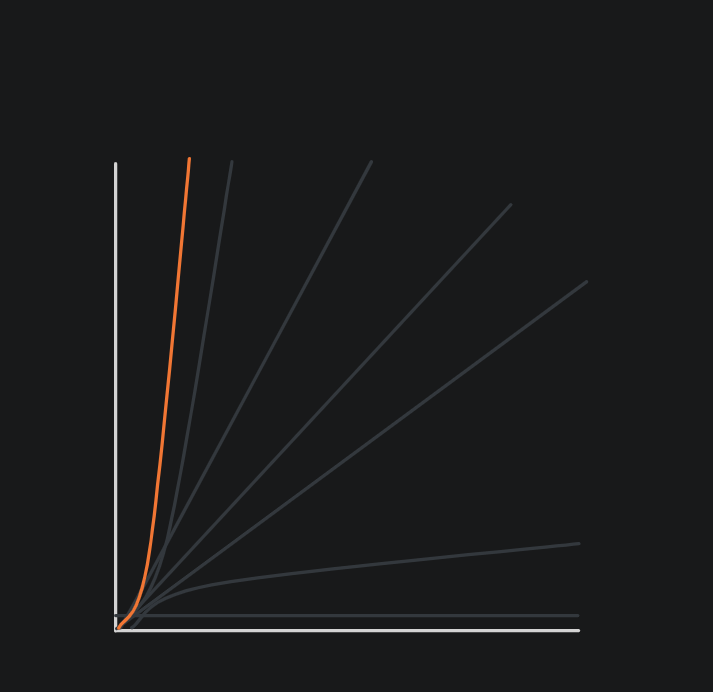
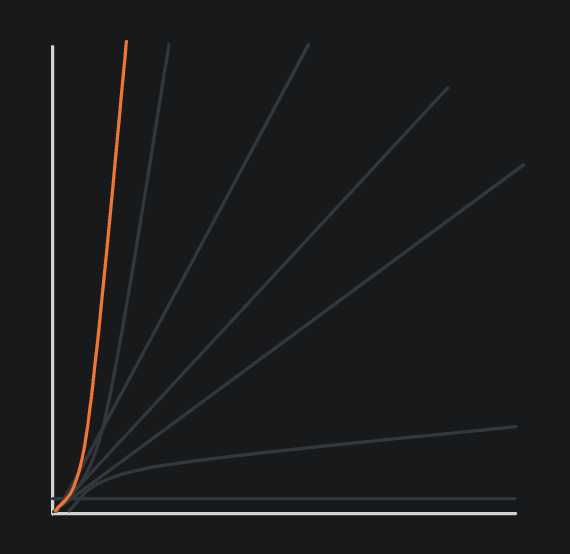
fixed bugs in complexity analysis

diff --git a/src/app/(root)/_components/ComplexityCard.tsx b/src/app/(root)/_components/ComplexityCard.tsx
@@ -1,12 +1,12 @@
 "use client";
-import React, { useEffect, useState, useCallback } from 'react';
-import { useCodeEditorStore } from '@/store/useCodeEditorStore';
-import Image from 'next/image';
-import { Loader2 } from 'lucide-react';
+import React, { useEffect, useState, useCallback, useRef } from "react";
+import { useCodeEditorStore } from "@/store/useCodeEditorStore";
+import Image from "next/image";
+import { Loader2 } from "lucide-react";
 
 interface ComplexityResult {
-    complexity: string;
-    category: string;
+    complexity: string; // AI-provided (full)
+    category: string;   // Simplified for image mapping
 }
 
 const ComplexityCard = () => {
@@ -14,39 +14,36 @@ const ComplexityCard = () => {
     const [isLoading, setIsLoading] = useState(false);
     const [error, setError] = useState<string | null>(null);
     const [result, setResult] = useState<ComplexityResult | null>(null);
+    const effectRan = useRef(false);
 
-    // Map of complexity to image path
-    const getImagePath = (complexity: string) => {
-        if (!complexity) return '/Complexity/O_N.png';
-        
-        // Clean and normalize the complexity string
-        const normalized = complexity.trim().toLowerCase();
-        
-        // Map complexity to the corresponding image
-        if (normalized.includes('o(1)') || normalized === 'constant') {
-            return '/Complexity/O_1.png';
-        } else if (normalized.includes('log') && normalized.includes('n')) {
-            return '/Complexity/O_logN.png';
-        } else if (normalized === 'o(n)' || normalized === 'linear') {
-            return '/Complexity/O_N.png';
-        } else if (normalized.includes('n log n') || normalized === 'linearithmic') {
-            return '/Complexity/O_NlogN.png';
-        } else if (normalized.includes('n²') || normalized.includes('n^2') || normalized === 'quadratic') {
-            return '/Complexity/O_N2.png';
-        } else if (normalized.includes('2^') || normalized.includes('^n') || normalized === 'exponential') {
-            return '/Complexity/O_NN.png';
-        } else if (normalized.includes('n!') || normalized === 'factorial') {
-            return '/Complexity/O_NN.png'; // Using exponential as fallback for factorial
+    // Map category to image path
+    const getImagePath = (category: string) => {
+        if (!category) return "/Complexity/O_N.png";
+        const normalized = category.trim().toLowerCase();
+
+        if (normalized.includes("o(1)") || normalized === "constant") {
+            return "/Complexity/O_1.png";
+        } else if (normalized.includes("log") && normalized.includes("n")) {
+            return "/Complexity/O_logN.png";
+        } else if (normalized === "o(n)" || normalized === "linear") {
+            return "/Complexity/O_N.png";
+        } else if (normalized.includes("n log n") || normalized === "linearithmic") {
+            return "/Complexity/O_NlogN.png";
+        } else if (normalized.includes("n²") || normalized.includes("n^2") || normalized === "quadratic") {
+            return "/Complexity/O_N2.png";
+        } else if (normalized.includes("2^") || normalized.includes("^n") || normalized === "exponential") {
+            return "/Complexity/O_NN.png";
+        } else if (normalized.includes("n!") || normalized === "factorial") {
+            return "/Complexity/O_NN.png";
         }
-        
-        // Default fallback
-        return '/Complexity/O_N.png';
+
+        return "/Complexity/O_N.png";
     };
 
     const analyzeComplexity = useCallback(async () => {
         const code = editorStore.getCode();
         if (!code.trim()) {
-            setError('No code to analyze');
+            setError("⚠ No code to analyze");
             return;
         }
 
@@ -54,31 +51,47 @@ const ComplexityCard = () => {
         setError(null);
 
         try {
-            const response = await fetch('/api/complexity', {
-                method: 'POST',
-                headers: {
-                    'Content-Type': 'application/json',
-                },
+            const response = await fetch("/api/complexity", {
+                method: "POST",
+                headers: { "Content-Type": "application/json" },
                 body: JSON.stringify({ code }),
             });
 
             if (!response.ok) {
-                const errorData = await response.json().catch(() => ({}));
-                throw new Error(errorData.error || 'Failed to analyze complexity');
+                let message = "Failed to analyze complexity";
+                try {
+                    const errData = await response.json();
+                    if (errData?.error) message = errData.error;
+                } catch {
+                    // ignore parsing error
+                }
+                throw new Error(message);
             }
 
             const data = await response.json();
+
+            // Safety check in case API sends weird data
+            if (!data?.complexity || !data?.category) {
+                throw new Error("Invalid complexity data received from AI");
+            }
+
             setResult(data);
         } catch (err) {
-            console.error('Error analyzing complexity:', err);
-            setError(err instanceof Error ? err.message : 'An unknown error occurred');
+            console.error("Error analyzing complexity:", err);
+            setError(
+                err instanceof Error ? err.message : "Unexpected error occurred"
+            );
         } finally {
             setIsLoading(false);
         }
     }, [editorStore]);
 
     useEffect(() => {
-        analyzeComplexity();
+        // Prevent duplicate calls in development mode with React Strict Mode
+        if (effectRan.current === false) {
+            analyzeComplexity();
+            effectRan.current = true;
+        }
     }, [analyzeComplexity]);
 
     if (isLoading) {
@@ -100,7 +113,7 @@ const ComplexityCard = () => {
                     <p className="text-sm mt-2">{error}</p>
                 </div>
                 <button
-                    onClick={() => window.location.reload()}
+                    onClick={analyzeComplexity}
                     className="mt-4 text-sm text-primary hover:underline"
                 >
                     Try again
@@ -117,36 +130,32 @@ const ComplexityCard = () => {
         );
     }
 
-    const imagePath = getImagePath(result?.category || '');
-    const complexityFormatted = result?.complexity
-        ? result.complexity.replace(/</g, '&lt;').replace(/>/g, '&gt;')
-        : '';
+    const imagePath = getImagePath(result.category);
 
     return (
         <div className="relative">
             <div className="flex flex-col items-center">
-            <div className="text-center">
-                    <div
-                        className="absolute z-10 text-3xl font-mono font-bold mb-2"
-                        dangerouslySetInnerHTML={{ __html: complexityFormatted }}
-                    />
-                </div>
+                {/* Display full complexity from AI */}
+                <p className="text-center z-10 text-3xl font-mono font-bold mb-4">
+                    {result.complexity}
+                </p>
 
-                <div className="relative w-92 h-92">
+                {/* Image with clipped top portion */}
+                <div
+                    className="relative w-92 h-92 overflow-hidden"
+                    style={{ clipPath: "inset(20px 0 0 0)" }} // clips 20px from top
+                >
                     <Image
                         src={imagePath}
-                        alt={`Complexity: ${result.complexity}`}
+                        alt={`Complexity: ${result.category}`}
                         fill
                         className="object-contain"
                         onError={(e) => {
-                            // Fallback to unknown image if the specific one doesn't exist
                             const target = e.target as HTMLImageElement;
-                            target.src = '/Complexity/UNKNOWN.png';
+                            target.src = "/Complexity/UNKNOWN.png";
                         }}
                     />
                 </div>
-
-                
             </div>
         </div>
     );

diff --git a/src/app/(root)/_components/OutputPanel.tsx b/src/app/(root)/_components/OutputPanel.tsx
@@ -18,6 +18,7 @@ import {
     DialogTrigger,
 } from "@/components/ui/dialog"
 import ComplexityCard from '@/app/(root)/_components/ComplexityCard';
+import { DialogTitle } from '@radix-ui/react-dialog';
 
 // Constants for language icons and file extensions
 const LANGUAGE_ICONS: Record<string, React.ReactNode> = {
@@ -145,6 +146,7 @@ function OutputPanel() {
                                 Complexity
                             </button>
                         </DialogTrigger>
+                        <DialogTitle className='hidden'>Time Complexity</DialogTitle>
                         <DialogContent className="sm:max-w-[425px] bg-popover">
                             <ComplexityCard />
                         </DialogContent>

diff --git a/src/app/api/complexity/route.ts b/src/app/api/complexity/route.ts
@@ -16,7 +16,7 @@ export async function POST(req: Request) {
     }
 
     // Get the generative model
-    const model = genAI.getGenerativeModel({ model: 'gemini-1.5-flash' });
+    const model = genAI.getGenerativeModel({ model: 'gemini-2.5-flash-lite' });
 
     // Define the prompt for complexity analysis
     const prompt = `Analyze the following code and determine its time complexity. 

diff --git a/src/app/api/ai/route.ts b/src/app/api/ai/route.ts
@@ -77,7 +77,7 @@ export async function POST(request: Request) {
 
     // Get the model
     const model = genAI.getGenerativeModel({
-      model: "gemini-2.0-flash",
+      model: "gemini-2.5-flash-lite",
       safetySettings,
       generationConfig,
     });

diff --git a/src/app/globals.css b/src/app/globals.css
@@ -175,6 +175,6 @@
     text-shadow: 0 0 0px var(--color-primary);
   }
   to {
-    text-shadow: 0 0 0px var(--color-sky-500);
+    text-shadow: 0 0 0px var(--color-red-400);
   }
 }
